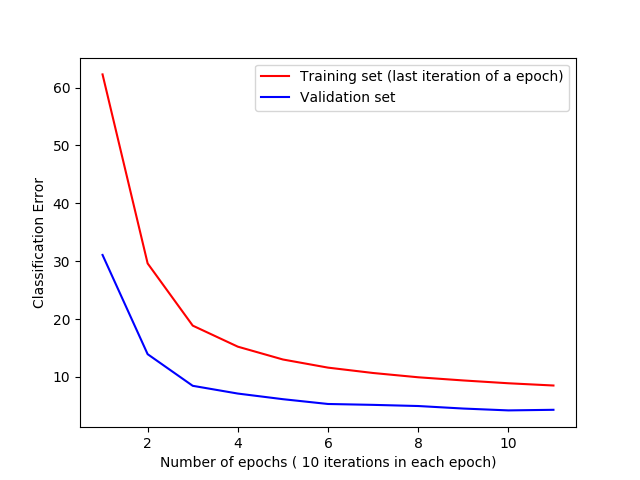
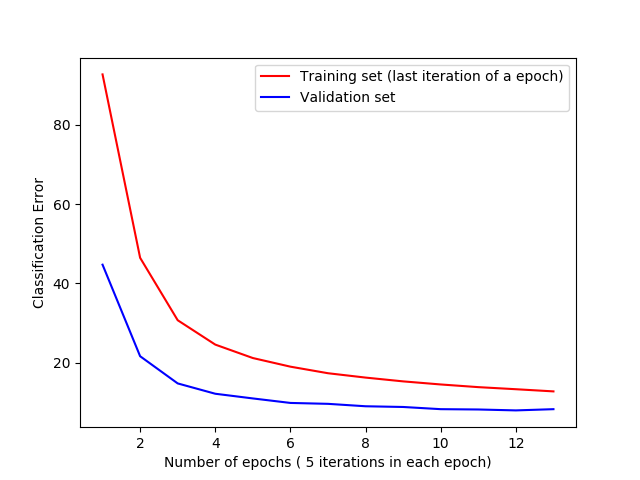
update

diff --git a/assignment_2/code/mlp.py b/assignment_2/code/mlp.py
@@ -28,7 +28,7 @@ class mlp:
             targets = rand[1]
             error_validation.append(0)
             error_training.append(0)
-            iterations = 10
+            iterations = 5
             #-----------------------------------------------------------------------------------
             #training, one iteration through the input data set
             for i in range(iterations):
@@ -36,9 +36,6 @@ class mlp:
                     target = targets[index]
                     input = inputs[index]
                     forward_results = self.forward(input)
-                    print("clear output",forward_results[1])
-                    print("target", target)
-                    print("--------------------")
                     hidden_activation = forward_results[0]
                     output_clear = forward_results[1]
                     output_discrete = forward_results[2]
@@ -49,25 +46,25 @@ class mlp:
                         error_training[epochs] += diff_squ_sum_vec_vec(output_clear,target)
 
             #-----------------------------------------------------------------------------------
+
             #validation, test early stopping
             errors = 0
             for v,t in zip(valid,validtargets):
                 res = self.forward(v)
-                print("clear output",res[1])
-                print("target", t)
-                print("-------------------- validation")
                 error_validation[epochs] += diff_squ_sum_vec_vec(res[1],t)
                 errors +=   diff_squ_sum_vec_vec(res[2],t)
             if epochs >1 and error_validation[epochs] > error_validation[epochs-1]:
                 early_stopping = True
             epochs +=1
-
+        print("----------------------------------------------------------------------------")
+        print("Training Phase")
+        print("")
         #print to the console
-        print("Training Errors (last iteration of a epoch)  :", error_training)
-        print("Validation Errors                            :", error_validation)
+        print("Training Error  (last iteration of a epoch)  :", error_training)
+        print("Validation Error                             :", error_validation)
         print("Number of Epochs                             :", epochs)
         print("Number iterations per epoch                  :",iterations)
-        print("Validation errors in the last epoch:         :", errors)
+        print("Wrong claffifications in validation set:     :", errors)
         print("Percent of Validation Errors                 :",  str((errors/len(valid))*100) + " %")
 
         #plot result and save it as a pdf file
@@ -79,6 +76,7 @@ class mlp:
         plt.xlabel("Number of epochs ( " + str(iterations) + " iterations in each epoch)")
         plt.savefig("multi_layer_perceptron.png", format="png")
         plt.show()
+        print("----------------------------------------------------------------------------")
 
 
     #check if a output is equal to the target output

diff --git a/assignment_2/report/report_latex/report.tex b/assignment_2/report/report_latex/report.tex
@@ -191,6 +191,6 @@
 	 	E(w) = \frac{1}{2} \sum_{k} (t_{\kappa} - y_{\kappa})^{2}
 	 	\end{equation} 
 	 \end{center}
- 	is used to estimate the quality of the network.
+ 	is used to estimate the quality of the network. So after each epoch (one is a certain number of iterations, eg. 10,100,1000) the Error-Function will be applied to the validation set. If the error of one epoch if bigger than the epoch before, the algorithm stops to avoid overfitting.
 	 
 \end{document}
